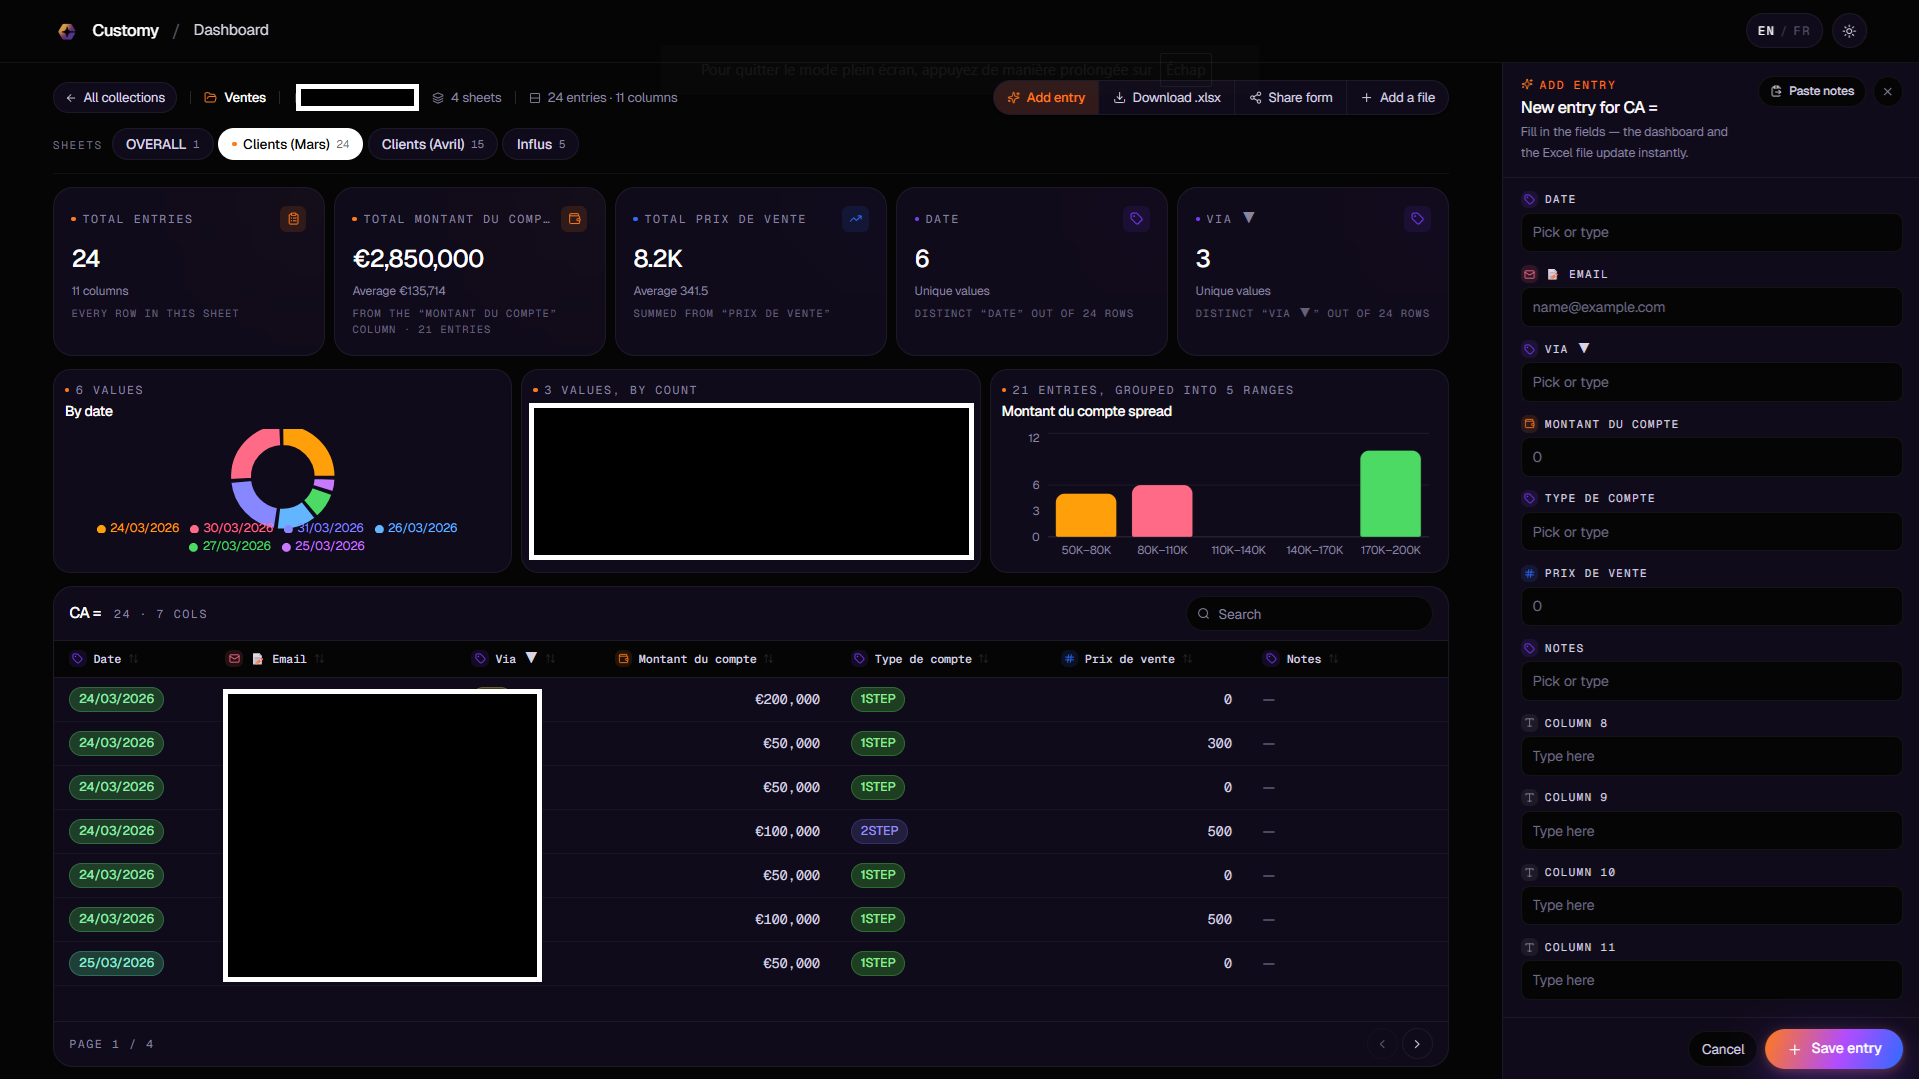
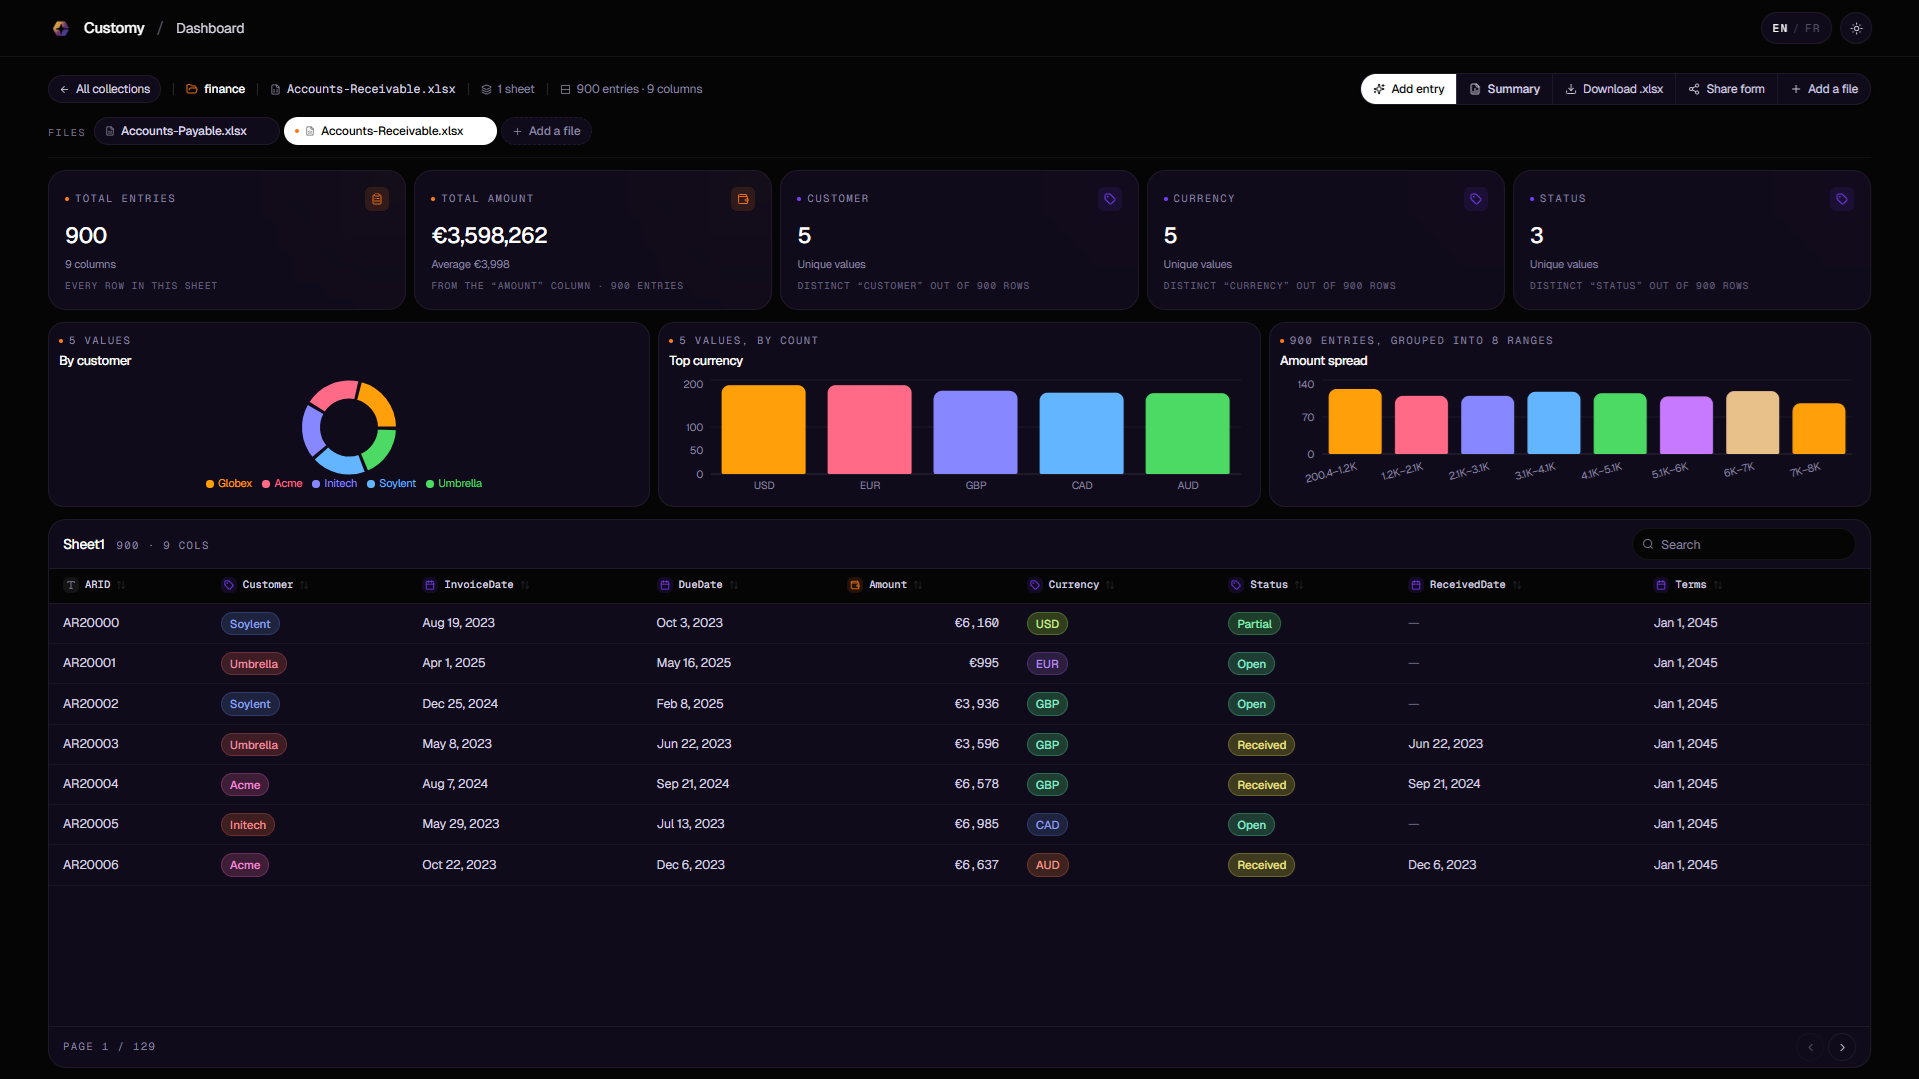
3/5

diff --git a/src/components/WhatWeBuildCTA.tsx b/src/components/WhatWeBuildCTA.tsx
@@ -40,11 +40,13 @@ const SOLUTIONS: Solution[] = [
     name: 'AI CRM',
     description: 'Drop any Excel file. AI turns it into a clean, live dashboard with real insights and actions you can take. Customers, deals, revenue, all in one place. Also runs as a mobile app.',
     price: '$1,499 – $3,999',
-    image: '/examples/example_dashboard_crm.png',
+    image: '/examples/example_dashboard_crm1.png',
     imageAlt: 'AI CRM that turns Excel files into a live dashboard',
     video: '/videos/preview_trailer_crm.MOV',
     gallery: [
-      '/examples/example_dashboard_crm2.png'
+      '/examples/example_dashboard_crm1.png',
+      '/examples/example_dashboard_crm2.png',
+      '/examples/example_dashboard_crm3.png'
     ]
   },
   {
@@ -52,9 +54,14 @@ const SOLUTIONS: Solution[] = [
     name: 'Website & Funnel',
     description: 'Custom site or full conversion funnel. From first click to booked call, designed to convert. Built with your tools, your tone, your stack.',
     price: '$399 – $1,999',
-    image: '/examples/example_website.png',
+    image: '/examples/example_website1.png',
     imageAlt: 'Custom website built to convert visitors into clients',
-    video: '/videos/preview_trailer_website.mov'
+    video: '/videos/preview_trailer_website.mov',
+    gallery: [
+      '/examples/example_website1.png',
+      '/examples/example_website2.png',
+      '/examples/example_website3.png'
+    ]
   },
   {
     slug: 'social-growth',